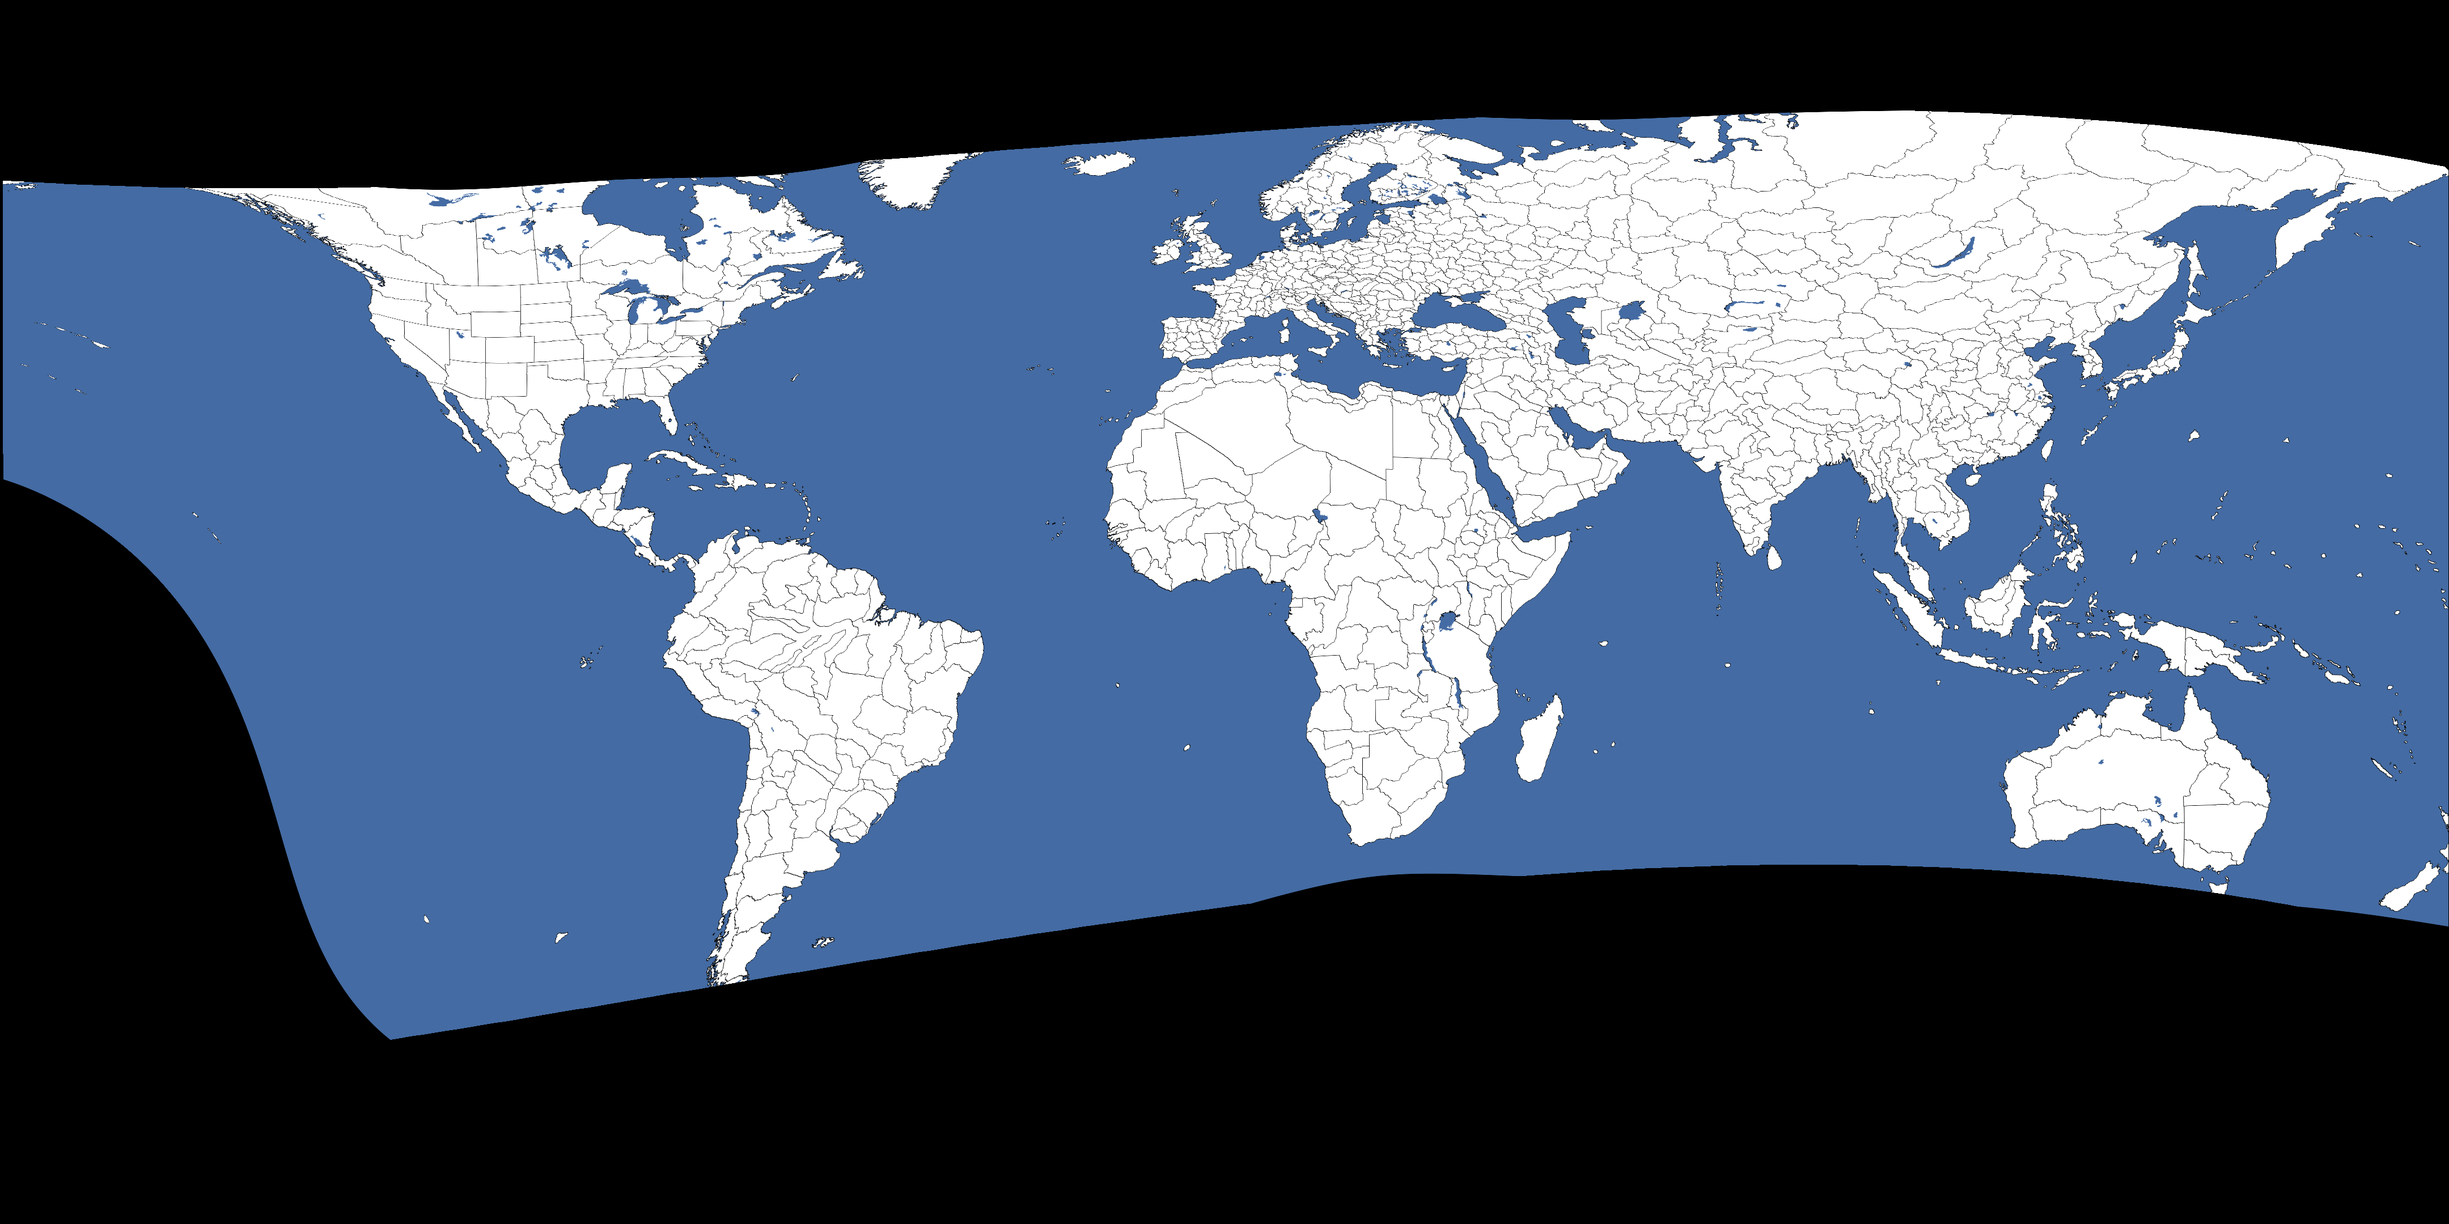
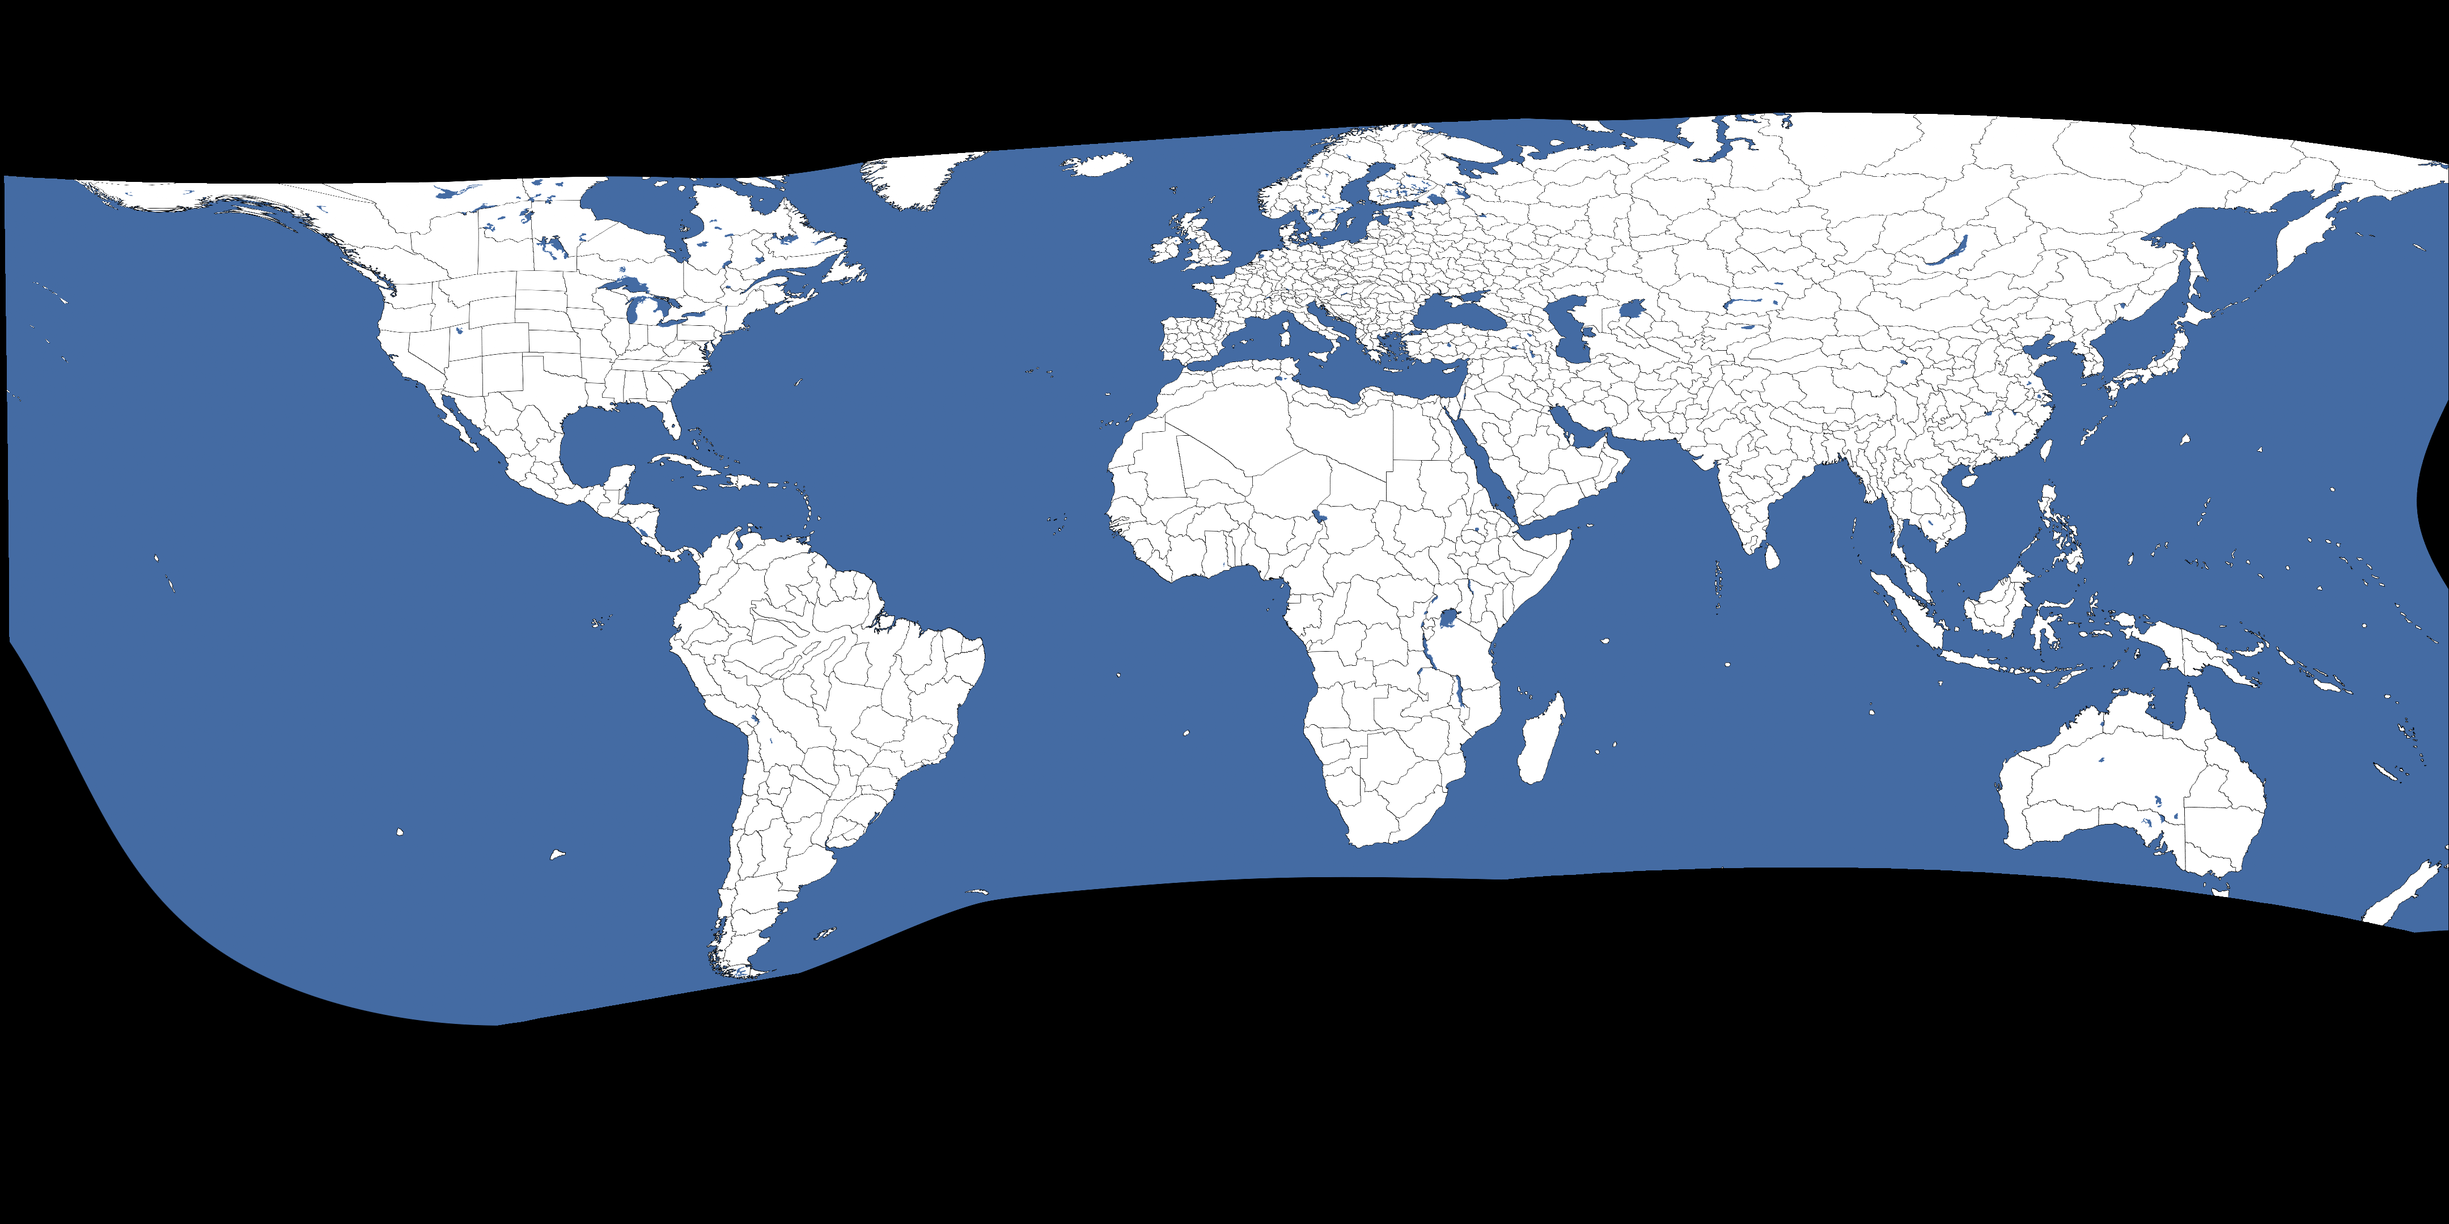
BACKUP COMMIT. this looks really good except edges

diff --git a/deprojector_1.2/pipeline/C_mesh_warp.py b/deprojector_1.2/pipeline/C_mesh_warp.py
@@ -2,7 +2,7 @@
 Pipeline Step C: Point-Constrained Mesh Warp (v3 — Affine Triangles & TPS)
 Optimizes a sparse set of control points using PyTorch SGD. Supports both 
 Affine Triangulation (barycentric rendering) and Thin Plate Spline (TPS) modes.
-Points are dynamically added to high-error regions during segmentation.
+Points are dynamically added to high-error regions and pruned if redundant during segmentation.
 """
 
 from typing import Tuple, Optional, Any, Callable, List
@@ -104,7 +104,7 @@ def apply_affine_to_points(pts: np.ndarray, src_pts: np.ndarray, ref_pts: np.nda
 def add_dynamic_points(
     error_map_np: np.ndarray, P_ref_np: np.ndarray, P_src_np: np.ndarray, 
     current_grid_np: np.ndarray, n_points: int = 5, min_dist: int = 20,
-    error_threshold: float = 0.05 # <--- NEW PARAMETER
+    error_threshold: float = 0.05
 ) -> Tuple[np.ndarray, np.ndarray, np.ndarray]:
     """Finds high-error regions and inserts new control points there."""
     err = cv2.GaussianBlur(error_map_np.astype(np.float32), (9, 9), 0)
@@ -113,7 +113,6 @@ def add_dynamic_points(
     for _ in range(n_points):
         min_val, max_val, min_loc, max_loc = cv2.minMaxLoc(err)
         
-        # Check against the exposed threshold
         if max_val < error_threshold: 
             break
             
@@ -133,12 +132,74 @@ def add_dynamic_points(
         
     return P_ref_np, P_src_np, new_refs_np
 
+def prune_control_points(
+    P_ref_np: np.ndarray, P_src_np: np.ndarray, warp_mode: str, 
+    work_h: int, work_w: int, h_s: int, w_s: int, 
+    src_mask_t: torch.Tensor, ref_mask_sm: torch.Tensor, poly_mask_t: torch.Tensor,
+    device: torch.device
+) -> Tuple[np.ndarray, np.ndarray, int, float]:
+    """Greedily attempts to remove points if doing so increases IoU."""
+    
+    def calc_iou(P_r, P_s):
+        with torch.no_grad():
+            if warp_mode == "affine":
+                try:
+                    idx, wt, _ = precompute_affine_barycentric(P_r, work_h, work_w)
+                    grid = evaluate_affine(torch.tensor(P_s, dtype=torch.float32, device=device), idx.to(device), wt.to(device))
+                except Exception:
+                    return -1.0 # Failed Delaunay
+            else:
+                L_inv, U, P_grid = precompute_tps_matrices(torch.tensor(P_r, dtype=torch.float32, device=device), work_h, work_w, device)
+                grid = evaluate_tps(torch.tensor(P_s, dtype=torch.float32, device=device), L_inv, U, P_grid, work_h, work_w)
+                
+            norm_grid_x = (grid[..., 0] / (w_s - 1)) * 2.0 - 1.0
+            norm_grid_y = (grid[..., 1] / (h_s - 1)) * 2.0 - 1.0
+            norm_grid = torch.stack([norm_grid_x, norm_grid_y], dim=-1).unsqueeze(0)
+            
+            warped = F.grid_sample(src_mask_t, norm_grid, mode="bilinear", padding_mode="zeros", align_corners=True)
+            
+            pm = poly_mask_t > 0.5
+            w_hit = (warped > 0.5) & pm
+            r_hit = (ref_mask_sm > 0.5) & pm
+            
+            intersection = (w_hit & r_hit).sum().float()
+            union = (w_hit | r_hit).sum().float().clamp(min=1e-8)
+            return (intersection / union).item()
+
+    base_iou = calc_iou(P_ref_np, P_src_np)
+    keep_mask = np.ones(len(P_ref_np), dtype=bool)
+    removed_count = 0
+    
+    # Identify corners to protect them from pruning (required for bounds stability)
+    is_corner = np.zeros(len(P_ref_np), dtype=bool)
+    for i, pt in enumerate(P_ref_np):
+        x, y = pt[0], pt[1]
+        if (x <= 1 or x >= work_w - 2) and (y <= 1 or y >= work_h - 2):
+            is_corner[i] = True
+            
+    for i in range(len(P_ref_np)):
+        if is_corner[i]:
+            continue
+            
+        keep_mask[i] = False
+        P_r_test = P_ref_np[keep_mask]
+        P_s_test = P_src_np[keep_mask]
+        
+        new_iou = calc_iou(P_r_test, P_s_test)
+        
+        if new_iou > base_iou + 1e-5:
+            base_iou = new_iou
+            removed_count += 1
+        else:
+            keep_mask[i] = True
+
+    return P_ref_np[keep_mask], P_src_np[keep_mask], removed_count, base_iou
+
 # ─────────────────────────────────────────────────────────────────────
 # 3. DIFFERENTIABLE WARPING KERNELS (AFFINE & TPS)
 # ─────────────────────────────────────────────────────────────────────
 
 def precompute_affine_barycentric(P_ref_np: np.ndarray, H: int, W: int) -> Tuple[torch.Tensor, torch.Tensor, np.ndarray]:
-    """Precomputes Delaunay Triangulation and Barycentric weights for every pixel."""
     delaunay = scipy.spatial.Delaunay(P_ref_np)
     y, x = np.mgrid[0:H, 0:W]
     grid_pts = np.column_stack([x.ravel(), y.ravel()])
@@ -161,13 +222,11 @@ def precompute_affine_barycentric(P_ref_np: np.ndarray, H: int, W: int) -> Tuple
     return idx_t, wt_t, delaunay.simplices
 
 def evaluate_affine(P_src: torch.Tensor, indices: torch.Tensor, weights: torch.Tensor) -> torch.Tensor:
-    """Differentiable Affine Triangulation forward pass."""
     src_triangles = P_src[indices] 
     return (src_triangles * weights.unsqueeze(-1)).sum(dim=2)
 
 def precompute_tps_matrices(P_ref: torch.Tensor, H: int, W: int, device: torch.device) -> Tuple[torch.Tensor, torch.Tensor, torch.Tensor]:
-    """Precomputes Thin Plate Spline invariant matrices."""
-    P_ref = P_ref.float() # Ensure float32 to prevent cdist type mismatch
+    P_ref = P_ref.float()
     N = P_ref.shape[0]
     dist = torch.cdist(P_ref, P_ref)
     K = dist ** 2 * torch.log(dist + 1e-8)
@@ -191,7 +250,6 @@ def precompute_tps_matrices(P_ref: torch.Tensor, H: int, W: int, device: torch.d
     return L_inv, U, P_grid
 
 def evaluate_tps(P_src: torch.Tensor, L_inv: torch.Tensor, U: torch.Tensor, P_grid: torch.Tensor, H: int, W: int) -> torch.Tensor:
-    """Differentiable TPS forward pass."""
     N = U.shape[1]
     Y = torch.cat([P_src, torch.zeros(3, 2, device=P_src.device)], dim=0)
     coeffs = L_inv @ Y
@@ -224,9 +282,15 @@ def dice_loss_poly(pred: torch.Tensor, target: torch.Tensor, poly_mask: torch.Te
     inter = (p * t).sum()
     return 1.0 - (2.0 * inter + smooth) / (p.sum() + t.sum() + smooth)
 
-def mse_loss_poly(pred: torch.Tensor, target: torch.Tensor, poly_mask: torch.Tensor) -> torch.Tensor:
+def mse_loss_poly(
+    pred: torch.Tensor, target: torch.Tensor, poly_mask: torch.Tensor, 
+    weight_map: Optional[torch.Tensor] = None
+) -> torch.Tensor:
     n = poly_mask.sum().clamp(min=1.0)
-    return ((pred - target) ** 2 * poly_mask).sum() / n
+    diff_sq = (pred - target) ** 2 * poly_mask
+    if weight_map is not None:
+        diff_sq = diff_sq * weight_map
+    return diff_sq.sum() / n
 
 # ─────────────────────────────────────────────────────────────────────
 # 5. VISUALIZATION HELPERS
@@ -292,25 +356,11 @@ def show_points_mesh(P_ref_np: np.ndarray, ref_img_np: np.ndarray, warp_mode: st
     
     if warp_mode == "affine" and simplices is not None:
         ax.triplot(P_ref_np[:, 0], P_ref_np[:, 1], simplices, color='cyan', lw=1.2, alpha=0.8)
-    elif warp_mode == "tps":
-        pass
     
     ax.plot(P_ref_np[:, 0], P_ref_np[:, 1], 'yo', markersize=5, markeredgecolor='black')
     ax.set_title(title)
     ax.axis("off")
     plt.tight_layout()
-    plt.show()
-
-def show_dynamic_points_error(error_map: np.ndarray, old_pts: np.ndarray, new_pts: np.ndarray, lvl: int):
-    fig, ax = plt.subplots(figsize=(8, 6))
-    im = ax.imshow(error_map, cmap='magma')
-    ax.scatter(old_pts[:, 0], old_pts[:, 1], c='cyan', s=10, label='Existing Points')
-    if len(new_pts) > 0:
-        ax.scatter(new_pts[:, 0], new_pts[:, 1], c='red', marker='*', s=80, label='New Dynamic Points')
-    ax.legend(loc="upper right")
-    ax.set_title(f"Level {lvl} Error Map & Dynamic Point Injection")
-    plt.colorbar(im, ax=ax)
-    ax.axis('off')
     plt.show()
 
 def show_displacement_quiver(P_init: np.ndarray, P_final: np.ndarray, title: str = "Control Point Movement"):
@@ -344,6 +394,8 @@ def sgd_point_warp_polygon_constrained(
     dyn_points_per_level: int = 8,
     dyn_error_threshold: float = 0.05,
     dyn_min_dist: int = 15,
+    prune_interval: int = 150,
+    edge_penalty: float = 0.0, # <--- NEW PARAMETER
     show_plots: bool = True
 ) -> Tuple[np.ndarray, np.ndarray, dict, float]:
     
@@ -368,7 +420,7 @@ def sgd_point_warp_polygon_constrained(
     work_w_bbox = int(work_h_bbox * (bw / bh))
     scale_x, scale_y = work_w_bbox / bw, work_h_bbox / bh
     
-    # ── Phase 2: Masks & Tensors ──────────────────────────────────
+    # ── Phase 2: Masks, Tensors & Edge Weights ────────────────────
     mask_ref_full = extract_land_mask(ref_img)
     mask_src_full = extract_land_mask(src_img)
     
@@ -382,6 +434,19 @@ def sgd_point_warp_polygon_constrained(
     
     src_rgb_np = cv2.cvtColor(src_img, cv2.COLOR_BGR2RGB)
     src_img_t = (torch.from_numpy(src_rgb_np).float().permute(2, 0, 1).unsqueeze(0).to(device) / 255.0)
+
+    # Compute Edge Penalty Map if requested
+    edge_weight_map = None
+    if edge_penalty > 0.0:
+        y_grid, x_grid = torch.meshgrid(torch.arange(work_h_bbox, device=device), torch.arange(work_w_bbox, device=device), indexing='ij')
+        # Normalize to [-1, 1] for both X and Y
+        nx = (x_grid / (work_w_bbox - 1)) * 2.0 - 1.0
+        ny = (y_grid / (work_h_bbox - 1)) * 2.0 - 1.0
+        # Chebyshev distance from the center (0 in center, 1 at edge)
+        dist_to_edge = torch.max(torch.abs(nx), torch.abs(ny))
+        # Linearly scale penalty: 1.0 at center -> (1.0 + edge_penalty) at edge
+        e_weight = 1.0 + edge_penalty * dist_to_edge
+        edge_weight_map = e_weight.unsqueeze(0).unsqueeze(0).float()
     
     # ── Phase 3: Control Point Initialization ─────────────────────
     print("\n▸ Phase 3: Initializing Control Points")
@@ -404,7 +469,6 @@ def sgd_point_warp_polygon_constrained(
             idx_t, wt_t, current_simplices = precompute_affine_barycentric(P_ref_np, work_h_bbox, work_w_bbox)
             idx_t, wt_t = idx_t.to(device), wt_t.to(device)
         else:
-            # Ensured explicitly Float32 loading via .float() to prevent Double mismatch
             L_inv, U, P_grid = precompute_tps_matrices(torch.from_numpy(P_ref_np).float().to(device), work_h_bbox, work_w_bbox, device)
             
         P_src_t = torch.tensor(P_src_np, dtype=torch.float32, device=device, requires_grad=True)
@@ -430,7 +494,7 @@ def sgd_point_warp_polygon_constrained(
             warped = F.grid_sample(src_mask_t, norm_grid, mode="bilinear", padding_mode="zeros", align_corners=True)
             
             l_dice = dice_loss_poly(warped, ref_bbox_sm, poly_mask_t)
-            l_mse = mse_loss_poly(warped, ref_bbox_sm, poly_mask_t)
+            l_mse = mse_loss_poly(warped, ref_bbox_sm, poly_mask_t, weight_map=edge_weight_map)
             
             if warp_mode == "affine":
                 l_struct = fold_loss_affine(P_src_t, current_simplices)
@@ -449,6 +513,31 @@ def sgd_point_warp_polygon_constrained(
                 
             if (step + 1) % 100 == 0 or step == steps_per_lvl - 1:
                 print(f"     step {step+1:4d} | loss={loss.item():.4f} | dice={l_dice.item():.4f} | struct={l_struct.item():.4f}")
+
+            # ── Prune Redundant Control Points Check ────────────────
+            if prune_interval > 0 and (step + 1) % prune_interval == 0 and (step + 1) < steps_per_lvl:
+                curr_P_src = P_src_t.detach().cpu().numpy()
+                new_P_ref, new_P_src, removed_n, new_iou = prune_control_points(
+                    P_ref_np, curr_P_src, warp_mode, work_h_bbox, work_w_bbox, 
+                    h_s, w_s, src_mask_t, ref_bbox_sm, poly_mask_t, device
+                )
+                
+                if removed_n > 0:
+                    print(f"     [Pruning] Step {step+1}: Successfully removed {removed_n} point(s) improving IoU to {new_iou:.4f}")
+                    P_ref_np, P_src_np = new_P_ref, new_P_src
+                    
+                    if warp_mode == "affine":
+                        idx_t, wt_t, current_simplices = precompute_affine_barycentric(P_ref_np, work_h_bbox, work_w_bbox)
+                        idx_t, wt_t = idx_t.to(device), wt_t.to(device)
+                    else:
+                        L_inv, U, P_grid = precompute_tps_matrices(torch.from_numpy(P_ref_np).float().to(device), work_h_bbox, work_w_bbox, device)
+                        
+                    P_src_t = torch.tensor(P_src_np, dtype=torch.float32, device=device, requires_grad=True)
+                    optim = torch.optim.Adam([P_src_t], lr=lr)
+                    
+                    best_loss = float('inf')
+                    best_P_src = P_src_np.copy()
+
 
         # Post-level updates
         P_src_np = best_P_src.copy()
@@ -472,12 +561,13 @@ def sgd_point_warp_polygon_constrained(
         # Add Dynamic Points if not the last level
         if lvl < levels - 1:
             with torch.no_grad():
-                error_map = (torch.abs(w_mask - ref_bbox_sm) * poly_mask_t)[0, 0].cpu().numpy()
+                # Apply the edge penalty weight to the error map so dynamic points spawn at edges more aggressively
+                base_err = torch.abs(w_mask - ref_bbox_sm) * poly_mask_t
+                if edge_weight_map is not None:
+                    base_err = base_err * edge_weight_map
+                error_map = base_err[0, 0].cpu().numpy()
                 
             old_len = len(P_ref_np)
-            old_pts_for_plot = P_ref_np.copy()
-            
-            # Pass the exposed variables here!
             P_ref_np, P_src_np, new_pts = add_dynamic_points(
                 error_map, P_ref_np, P_src_np, final_grid.cpu().numpy(), 
                 n_points=dyn_points_per_level, 

diff --git a/deprojector_1.2/app.py b/deprojector_1.2/app.py
@@ -13,7 +13,7 @@ from pipeline.B_get_extent import (
     visualize_full, visualize_ransac, visualize_warp_grid
 )
 
-# CHANGED: Import the new point-based optimization function
+# Import the new point-based optimization function
 from pipeline.C_mesh_warp import sgd_point_warp_polygon_constrained
 
 def executePipeline():
@@ -59,7 +59,7 @@ def executePipeline():
     cv2.imwrite(os.path.join(output_dir, "extent.png"), output)
     print("\nSaved extent.png")
 
-    # CHANGED: Polygon-constrained control point mesh warp optimisation
+    # Polygon-constrained control point mesh warp optimisation
     warped_result, learned_disp, detected_bbox, final_iou = (
         sgd_point_warp_polygon_constrained(
             show_plots=True,
@@ -67,14 +67,16 @@ def executePipeline():
             src_img=src_img,
             extent_result=result,
             work_h_bbox=420,
-            warp_mode="tps",   # Toggle to "tps" if you want Thin Plate Spline!
-            levels=5,             # Number of coarse-to-fine dynamic point injection steps
-            steps_per_lvl=1200,    # Steps for SGD to optimize the points per level
-            lr_init=2.0,          # Initial learning rate for point movement
-            lam_fold=0.2,          # Regularization weight to prevent mesh folding/artifacts
+            warp_mode="tps",   
+            levels=5,             
+            steps_per_lvl=1200,    
+            lr_init=2.0,          
+            lam_fold=0.2,          
             dyn_points_per_level=24,          
-            dyn_error_threshold=0.005,         # Make it slightly more sensitive to small errors
-            dyn_min_dist=12,                  # Allow points to be slightly closer together
+            dyn_error_threshold=0.005,         
+            dyn_min_dist=12,
+            prune_interval=150,     # Attempt to strip down redundant points safely
+            edge_penalty=0,       #16.0: strong edge penalty; 1.0 no edge penalty. 8.0 best compromise?
         )
     )
 
